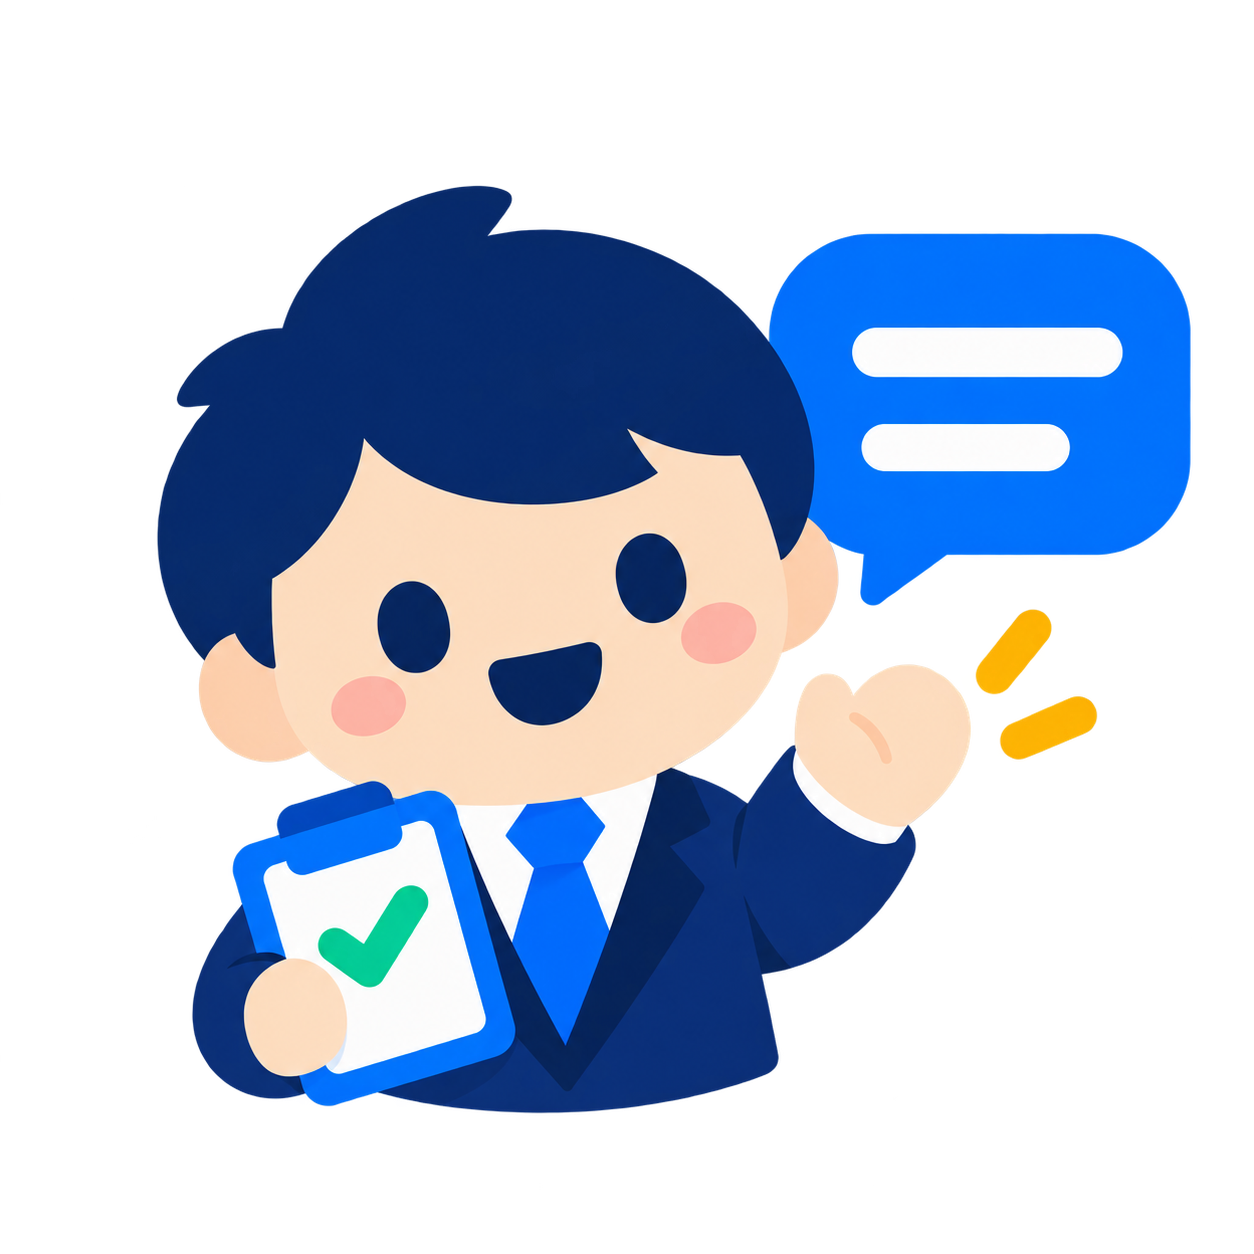
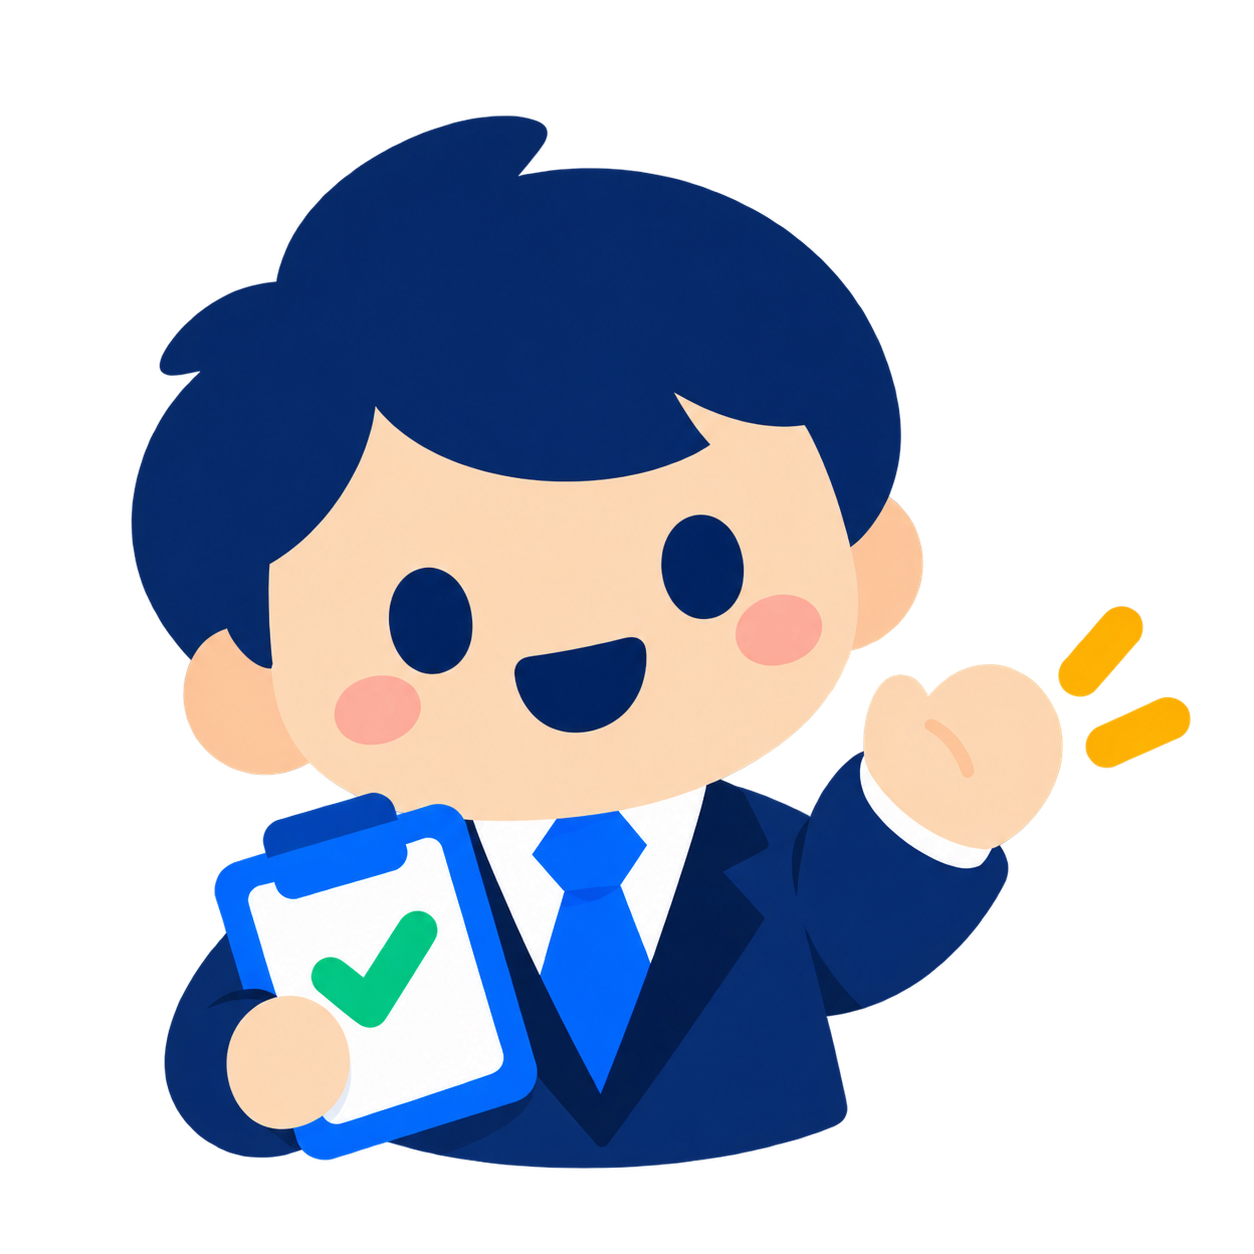
fix(web): remove mascot background block

Changed region(s): [[0.0933, 0.0933, 0.9641, 0.933], [0.2488, 0.3732, 0.2799, 0.4354], [0.2177, 0.4354, 0.2488, 0.4665]]

diff --git a/apps/web/src/app.css b/apps/web/src/app.css
@@ -196,6 +196,9 @@ section.card.section-title{padding:22px 24px 24px;}
 .nav button.active .navicon{color:var(--blue);}
 .nav button:hover{transform:translateX(2px);}
 
+/* Keep the approved mascot free of any square brand background. */
+.logo-mark{background:transparent!important;box-shadow:none!important;}
+
 /* Hero — tighter, more purposeful, motion on the waveforms */
 .hero{min-height:238px;padding:38px 42px;border-radius:20px;background:linear-gradient(118deg,#eef3ff 0%,#f0f4ff 55%,#e8eeff 100%);border-color:#d9e4fb;}
 .hero h1{margin-bottom:12px;}
